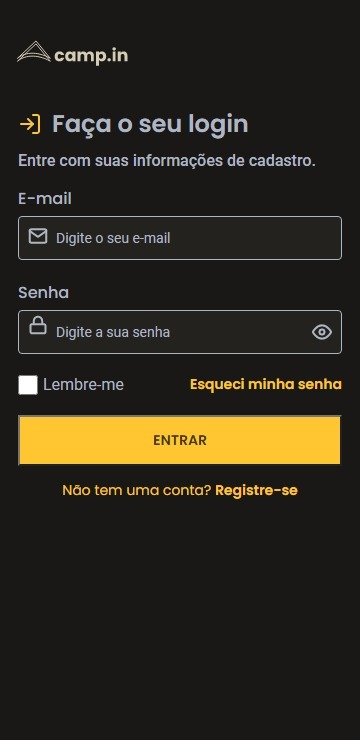
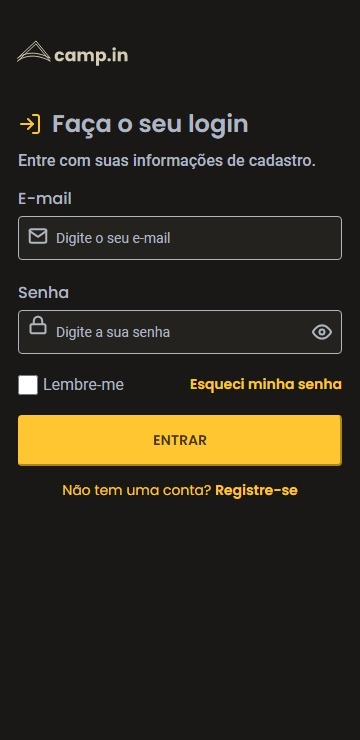
fix: button border-radius and readme images

Changed region(s): [[0.0306, 0.5595, 0.9778, 0.6527]]

diff --git a/Login_Form_CSS/styles.css b/Login_Form_CSS/styles.css
@@ -242,6 +242,8 @@ input:focus {
   font-weight: 600;
   font-size: 14px;
   color: #473404;
+  border-radius: 4px;
+  border-color: var(--primary-color);
 }
 
 /*-------Singout Section----------*/

diff --git a/Login_Form_CSS/styles.scss b/Login_Form_CSS/styles.scss
@@ -257,6 +257,8 @@ input {
   font-weight: 600;
   font-size: 14px;
   color: #473404;
+  border-radius: 4px;
+  border-color: var(--primary-color);
 }
 
 /*-------Singout Section----------*/
